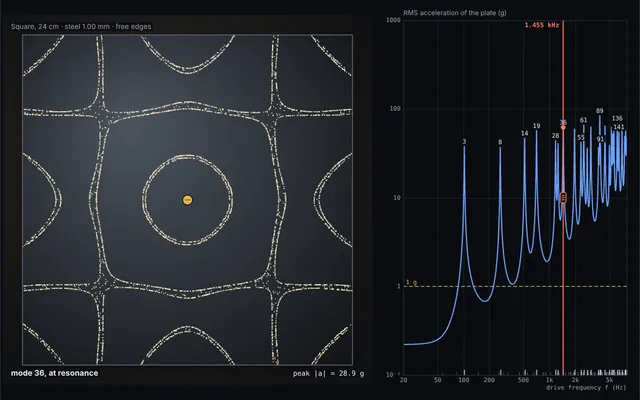
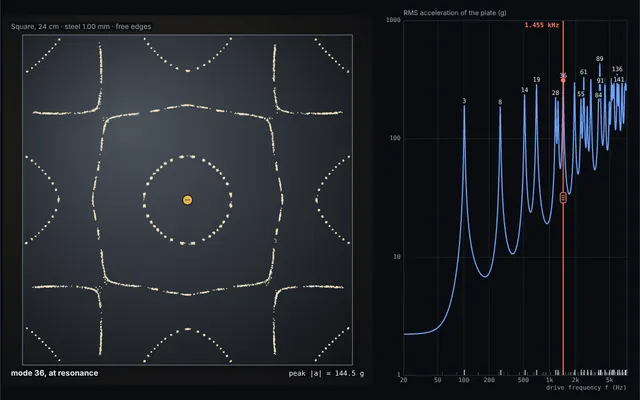
Chladni Plates: sand churns between resonances
Default drive 1 N and Q 50 (order of magnitude for a voice coil wave
driver, stated), so the off resonance modal sum exceeds g over much of
the plate above a few hundred hertz. Grains above g hop with the
plate's launch speed at the -g crossing plus a drift to smaller |a|;
patterns break up between peaks and re-form at the next. High mode
at Q 200, 0.3 N settles cleanly. Notes Q4 updated.

Claude-Session: https://claude.ai/code/session_01Ed2BcirBdsGia7rutWh1uF

diff --git a/demos/chladni.html b/demos/chladni.html
@@ -345,8 +345,9 @@ input[type="range"] { width: 100%; accent-color: var(--accent); margin: 0; }
           <p>Thin plate (Kirchhoff–Love) theory: D∇⁴w = −ρh ∂²w/∂t² with flexural rigidity D = Eh³/(12(1 − ν²)). Small, linear motion of a flat, uniform, isotropic plate. Good while the bending wavelength is long compared with the thickness (k h well below 1; shown under Plate).</p>
           <p>Every edge is free, and the drive is an ideal point force F₀ cos(2πft) at the brass post. The driver's own mass and stiffness and the small clamp around the bolt are left out; a real driver bolted to the plate shifts the resonances, so measured kit frequencies differ. The plate's rigid bouncing and rocking are included.</p>
           <p>Circle: exact solution, w = [J_n(λr/a) + C I_n(λr/a)] cos nθ, with the free edge frequency equation solved to 12 digits. Square: no closed form; Rayleigh–Ritz with Legendre polynomials up to degree 30 in x and in y (961 terms, split into symmetry classes), converged to better than 1 part in a million for every mode shown.</p>
-          <p>Damping: every flexural mode has the same Q. The response is the sum over all computed modes. The sand's mass does not load the plate.</p>
-          <p>Sand is phenomenological, not a granular simulation: where the local acceleration amplitude |a| exceeds g a grain leaves the surface each cycle and, every 1/60 s, hops s × (a random step of mean length 1 in a random direction + a drift of 0.5 toward smaller |a|), with s = 0.6 mm × √min(|a|/g − 1, 4). The drift stands in for grains bouncing off the tilted, moving surface, which carries them toward the nodes. Where |a| &lt; g a grain stays put. Grains that pass the edge fall off. Very light powder (lycopodium) gathers at the antinodes instead, carried by air currents over the plate (Faraday, 1831); air is not modeled.</p>
+          <p>Damping: every flexural mode has the same Q (default 50, a model choice: a plate bolted to a driver and carrying sand is heavily damped). The response is the sum over all computed modes, between resonances too. The sand's mass does not load the plate.</p>
+          <p>Drive level: PASCO publishes no force rating for its wave drivers (SF-9324, WA-9855). It states an amplitude of about 5 mm up to about 50 Hz for the SF-9324, which is about 50 g of acceleration at 50 Hz, a drive of ±8 V at 0.5 A, and at most 1.2 A for the WA-9855. The default F₀ = 1 N is an order of magnitude estimate for a voice coil driver at those currents, not a measured value.</p>
+          <p>Sand is phenomenological, not a granular simulation. Where the local acceleration amplitude |a| exceeds g the plate throws a grain off once a cycle, at the moment its acceleration passes −g, with launch speed v_L = (g/2πf)√((|a|/g)² − 1). Every 1/60 s such a grain moves v_L × 1/60 s (at most 3 mm) times a random step of mean length 1 in a random direction plus a drift of 0.5 toward smaller |a|. The drift stands in for grains bouncing off the tilted, moving surface, which carries them toward the nodes. Where |a| &lt; g a grain stays put. So at high frequencies, where v_L is small, sand between resonances buzzes and creeps; at low frequencies it hops far. Grains in flight are drawn with a slight blur; grains that pass the edge fall off. Very light powder (lycopodium) gathers at the antinodes instead, carried by air currents over the plate (Faraday, 1831); air is not modeled.</p>
         </div>
       </section>
     </aside>
@@ -665,17 +666,20 @@ input[type="range"] { width: 100%; accent-color: var(--accent); margin: 0; }
   }
 
   // ---- sand: a phenomenological model, not a granular simulation ----
-  // A grain where the local acceleration amplitude |a| exceeds g leaves the surface on every cycle. Each tick it hops by
-  // s × (a random vector of mean length 1 + drift × the unit vector down the slope of |a|), with s = step × √min(|a|/g − 1, cap).
-  // The drift stands in for grains bouncing off the tilted, moving surface, which carries them toward the nodes.
-  // Where |a| < g a grain stays put. Grains that pass the edge fall off.
-  function sandStep(sx, sy, alive, gammaAt, inside, rng, step, cap, drift) {
+  // Where the local acceleration amplitude exceeds g (Γ = |a|/g > 1) the plate throws a grain off once a cycle, at the
+  // moment its acceleration passes −g; the plate's speed then is the launch speed v_L = (g/ω)√(Γ² − 1).
+  function launchSpeed(gam, f) { return gam > 1 ? G0 / (2 * Math.PI * f) * Math.sqrt(gam * gam - 1) : 0; }
+  // Each tick a grain with Γ > 1 moves s × (a random vector of mean length 1 + drift × the unit vector down the slope of Γ),
+  // with s = hop(Γ) supplied by the caller (the demo uses a fixed fraction of v_L × tick, capped). The drift stands in for
+  // grains bouncing off the tilted, moving surface, which carries them toward the nodes. Where Γ ≤ 1 a grain stays put.
+  // Grains that pass the edge fall off.
+  function sandStep(sx, sy, alive, gammaAt, inside, rng, hop, drift) {
     let lost = 0; const h = 0.01;
     for (let i = 0; i < sx.length; i++) {
       if (!alive[i]) continue;
       const x = sx[i], y = sy[i], gam = gammaAt(x, y);
       if (gam <= 1) continue;
-      const s = step * Math.sqrt(Math.min(gam - 1, cap)), r = 2 * rng(), th = 2 * Math.PI * rng();
+      const s = hop(gam), r = 2 * rng(), th = 2 * Math.PI * rng();
       let dx = r * Math.cos(th), dy = r * Math.sin(th);
       if (drift) {
         const gx = gammaAt(x + h, y) - gammaAt(x - h, y), gy = gammaAt(x, y + h) - gammaAt(x, y - h), gn = Math.hypot(gx, gy);
@@ -708,7 +712,8 @@ input[type="range"] { width: 100%; accent-color: var(--accent); margin: 0; }
   const TAU = 2 * Math.PI;
   const GN = 101, NSAND = 6000, HALF = 0.12;      // field grid nodes per side; sand grains; half width of either plate, m
   const F_MIN = 20, F_CAP = 8000;
-  const STEP = 0.0006 / HALF, CAP = 4, DRIFT = 0.5, TICK = 1 / 60;   // sand: hop scale (plate half widths), cap on |a|/g − 1, drift, tick (s)
+  const EPS = 1, HOP_MAX = 0.003, DRIFT = 0.5, TICK = 1 / 60;   // sand: grain speed = EPS × launch speed, longest hop per tick (m), drift, tick (s)
+  const hop = (gam) => Math.min(HOP_MAX, EPS * launchSpeed(gam, S.f) * TICK) / HALF;
   const DRIVEN = 0.15;                                    // |φ̂(p)| below this: the drive point sits on or near a nodal line
   const DRIVES = {
     square: { center: [0, 0], off: [0.42, 0.22], edge: [1, 0.36] },
@@ -716,7 +721,7 @@ input[type="range"] { width: 100%; accent-color: var(--accent); margin: 0; }
   };
 
   // ---------- state ----------
-  const S = { shape: 'square', mat: 'steel', h: 1.0e-3, f: 100, Q: 100, F: 0.1, drive: 'center', du: 0, dv: 0,
+  const S = { shape: 'square', mat: 'steel', h: 1.0e-3, f: 100, Q: 50, F: 1, drive: 'center', du: 0, dv: 0,
     view: 'sand', plot: 'resp', nodal: false, heat: false, follow: true, sweep: false, rate: 4 };
   let presetId = null, running = !reduce, frameMs = 0, dirty = true;
 
@@ -881,7 +886,7 @@ input[type="range"] { width: 100%; accent-color: var(--accent); margin: 0; }
     sand.count = NSAND; dirty = true; glSandDirty = true;
   }
   function sandTick() {
-    sand.count -= sandStep(sand.x, sand.y, sand.alive, gammaAt, inside, rng, STEP, CAP, DRIFT); ticks++;
+    sand.count -= sandStep(sand.x, sand.y, sand.alive, gammaAt, inside, rng, hop, DRIFT); ticks++;
   }
 
   // ---------- frequency controls ----------
@@ -963,18 +968,18 @@ input[type="range"] { width: 100%; accent-color: var(--accent); margin: 0; }
 
   // ---------- presets ----------
   const PRESETS = {
-    first: { shape: 'square', mat: 'steel', h: 1e-3, drive: 'center', Q: 100, F: 0.1, pick: { driven: 1 },
+    first: { shape: 'square', mat: 'steel', h: 1e-3, drive: 'center', Q: 50, F: 1, pick: { driven: 1 },
       hint: 'The lowest mode a center drive can excite on the square. In a few seconds the sand leaves the moving regions and gathers on the nodal lines. The lower twisting modes have a node at the center, so they stay silent.' },
-    cross: { shape: 'circle', mat: 'steel', h: 1e-3, drive: 'off', Q: 100, F: 0.5, pick: { nm: [2, 0] },
+    cross: { shape: 'circle', mat: 'steel', h: 1e-3, drive: 'off', Q: 50, F: 1, pick: { nm: [2, 0] },
       hint: 'Driven halfway out, like the off center hole of a kit plate: two nodal diameters cross at right angles. This is the lowest flexural mode of a free circular plate, yet a center drive could never excite it, because every mode with nodal diameters has a node at the center.' },
-    rings: { shape: 'circle', mat: 'steel', h: 1e-3, drive: 'center', Q: 100, F: 0.1, pick: { nm: [0, 3] },
+    rings: { shape: 'circle', mat: 'steel', h: 1e-3, drive: 'center', Q: 50, F: 1, pick: { nm: [0, 3] },
       hint: 'Driven at the center, a circular plate can only ring in modes without nodal diameters, so every pattern is a set of concentric nodal circles. Step through them with Next resonance.' },
-    sweep: { shape: 'square', mat: 'steel', h: 1e-3, drive: 'center', Q: 100, F: 0.1, f: 60, sweep: true, rate: 1,
-      hint: 'Turn on Sound. The drive sweeps upward one semitone per second: the tone swells at every peak of the response curve while the sand jumps, and falls quiet between peaks.' },
-    star: { shape: 'square', mat: 'steel', h: 1e-3, drive: 'center', Q: 100, F: 0.1, pick: { driven: 7 },
+    sweep: { shape: 'square', mat: 'steel', h: 1e-3, drive: 'center', Q: 50, F: 1, f: 60, sweep: true, rate: 1,
+      hint: 'Turn on Sound. The drive sweeps upward one semitone per second: the tone swells at every peak and the sand snaps into a new pattern. Between peaks the plate still moves; above a few hundred hertz it passes g over much of the plate, so the old pattern buzzes and starts to break up.' },
+    star: { shape: 'square', mat: 'steel', h: 1e-3, drive: 'center', Q: 50, F: 1, pick: { driven: 7 },
       hint: 'A higher mode of the center driven square, with nodal lines in a star around the middle. Patterns like this fill the plates in Chladni’s 1787 book.' },
-    high: { shape: 'circle', mat: 'steel', h: 1e-3, drive: 'edge', Q: 300, F: 0.1, pick: { nm: [4, 2] },
-      hint: 'Driven at the rim, the way Chladni bowed his plates: four nodal diameters and two nodal circles, at Q = 300 so that neighboring modes stay out. The drive point sits on an antinode at the rim, so no nodal diameter can pass through it.' }
+    high: { shape: 'circle', mat: 'steel', h: 1e-3, drive: 'edge', Q: 200, F: 0.3, pick: { nm: [4, 2] },
+      hint: 'Driven at the rim, the way Chladni bowed his plates: four nodal diameters and two nodal circles, at Q = 200 so that neighboring modes stay out. The drive point sits on an antinode at the rim, so no nodal diameter can pass through it.' }
   };
   function clearPreset() {
     if (!presetId) return;
@@ -1034,7 +1039,7 @@ input[type="range"] { width: 100%; accent-color: var(--accent); margin: 0; }
     $('plateHint').textContent = `A ${name}, as in common teaching kits (PASCO WA-9607); makers rarely state the thickness, about 1 mm is typical. ${mat.name}: E = ${mat.E / 1e9} GPa, ρ = ${mat.rho} kg/m³, ν = ${mat.nu}. Every frequency scales as h/ℓ² × √(E/ρ(1 − ν²)): twice as thick, an octave higher. Modes are computed up to ${fmtF(D.fmax)} for this plate.`;
   }
   function driveHintText() {
-    $('driveHint').textContent = `Sand leaves the surface where the plate's acceleration amplitude passes g, which happens near resonance. A mode is excited only if the drive point moves in it: a drive on a nodal line of a mode cannot pump it. The force and Q are model choices; Q = ${Math.round(S.Q)} gives each peak a width f/Q.`;
+    $('driveHint').textContent = `Sand leaves the surface where the plate's acceleration amplitude passes g, which happens near resonance. A mode is excited only if the drive point moves in it: a drive on a nodal line of a mode cannot pump it. Between resonances the plate still moves (the sum of all modes, strongest near the post), and wherever |a| passes g the old pattern breaks up. The force (default 1 N, an estimate for a classroom wave driver; see Model) and Q are model choices; Q = ${Math.round(S.Q)} gives each peak a width f/Q.`;
   }
   function plotHintText() {
     $('plotHint').textContent = S.plot === 'law'
@@ -1150,7 +1155,7 @@ input[type="range"] { width: 100%; accent-color: var(--accent); margin: 0; }
     for (let i = 0; i < NSAND; i++) {
       if (!sand.alive[i]) continue;
       let x = U2X(sand.x[i]), y = V2Y(sand.y[i]);
-      if (jit && sand.g[i] > 1) { x += (Math.random() - 0.5) * jit; y += (Math.random() - 0.5) * jit; }
+      if (jit && sand.g[i] > 1) { const j = jit * Math.min(2.2, 0.6 + 0.4 * (sand.g[i] - 1)); x += (Math.random() - 0.5) * j; y += (Math.random() - 0.5) * j; }
       c.fillRect(x - hs, y - hs, sz, sz);
     }
     if (S.nodal) {
@@ -1176,7 +1181,7 @@ input[type="range"] { width: 100%; accent-color: var(--accent); margin: 0; }
     if (D.near != null) {
       const md = D.ms.modes[D.near], fk = modeF(md), off = Math.abs(S.f - fk) / (fk / S.Q);
       c.font = `700 ${13.5 * ps}px ${T.ui}`;
-      const t = off < 1.5 ? `${md.label}, ${isDriven(D.near) ? 'at resonance' : 'not driven'}` : 'between resonances';
+      const t = off < 1.5 && isDriven(D.near) ? `${md.label}, at resonance` : 'between resonances';
       halo(c, t, p.x + 4, p.y + p.s - 6 * ps, 'left', T.ink, ps);
       c.font = `${12 * ps}px ${T.mono}`;
       halo(c, `peak |a| = ${D.gmax < 10 ? D.gmax.toFixed(2) : D.gmax.toFixed(1)} g`, p.x + p.s - 4, p.y + p.s - 6 * ps, 'right', D.gmax > 1 ? T.ink : T.muted, ps);

diff --git a/notes/chladni.html b/notes/chladni.html
@@ -76,7 +76,7 @@ footer { margin-top: 36px; padding-top: 10px; border-top: 1px solid var(--line);
 <li><strong>Next resonance</strong>, a few times. Each peak gives a new pattern with more nodal lines. Point out the faint ticks along the bottom of the plot: modes that exist but do not respond, because the center is on one of their nodal lines. Ask Q6, then drag the brass drive post off center and press <strong>Previous resonance</strong> back down.</li>
 <li><strong>Rings on a circle.</strong> Ask Q2 as a prediction first. Step through with <strong>Next resonance</strong>: every pattern is a set of circles.</li>
 <li><strong>A cross</strong>, then <strong>High mode</strong>. Off center and at the rim, the modes with nodal diameters appear. Switch <strong>Plot</strong> to <strong>Chladni's law</strong> and use Q5.</li>
-<li><strong>Sweep and listen.</strong> Turn on sound. The tone swells at each peak; the sand only moves when the curve crosses the 1 g line. Stop the sweep near a peak and use <strong>Fine tune</strong> to walk across it; change <strong>Modal Q (damping)</strong> and ask Q4.</li>
+<li><strong>Sweep and listen.</strong> Turn on sound. The tone swells at each peak. Between peaks the plate still moves; above a few hundred hertz it passes g over much of the plate, so the old pattern buzzes and starts to break up before the next one forms. Stop the sweep near a peak and use <strong>Fine tune</strong> to walk across it; change <strong>Modal Q (damping)</strong> and ask Q4.</li>
 <li><strong>Square: classic star</strong> (if time allows). Try <strong>Where |a| &gt; g</strong> and <strong>3D</strong> (bending exaggerated and slowed). Change <strong>Metal</strong> and <strong>Thickness h</strong> for Q3.</li>
 </ol>
 <h2>Questions</h2>
@@ -86,7 +86,7 @@ footer { margin-top: 36px; padding-top: 10px; border-top: 1px solid var(--line);
 
 <div class="q"><p><strong>Q3.</strong> The lowest mode a center drive excites on the 24 cm, 1.00 mm steel square is at 102.4 Hz. Predict its frequency (a) for a 2.00 mm steel plate, (b) for a steel plate 18 cm on a side and 1.00 mm thick, and (c) for a 1.00 mm aluminum plate (E = 69 GPa, ρ = 2700 kg/m³ instead of 200 GPa and 7850 kg/m³). Aluminum is almost three times lighter; why is (c) nearly the same? Check (a) and (c) with the demo.</p></div>
 
-<div class="q"><p><strong>Q4.</strong> At 102.4 Hz in <strong>First pattern</strong> the peak acceleration on the plate is 11.1 g. What is the largest displacement amplitude of the plate? If Q is doubled from 100 to 200 at exact resonance, what happens to that amplitude, and to the width of the peak?</p></div>
+<div class="q"><p><strong>Q4.</strong> At 102.4 Hz in <strong>First pattern</strong> the peak acceleration on the plate is 55.7 g. What is the largest displacement amplitude of the plate? If Q is doubled from 50 to 100 at exact resonance, what happens to that amplitude, and to the width of the peak?</p></div>
 
 <div class="q"><p><strong>Q5.</strong> With <strong>High mode</strong> loaded, switch <strong>Plot</strong> to <strong>Chladni's law</strong>. Use the fitted C and p shown on the plot to predict the frequency of the (4, 2) mode, then compare with the demo's resonance. How good is the law, and what kind of statement is it?</p></div>
 

diff --git a/notes/src/chladni.md b/notes/src/chladni.md
@@ -21,7 +21,7 @@ Students should know standing waves on a string, nodes and antinodes, and driven
 2. **Next resonance**, a few times. Each peak gives a new pattern with more nodal lines. Point out the faint ticks along the bottom of the plot: modes that exist but do not respond, because the center is on one of their nodal lines. Ask Q6, then drag the brass drive post off center and press **Previous resonance** back down.
 3. **Rings on a circle.** Ask Q2 as a prediction first. Step through with **Next resonance**: every pattern is a set of circles.
 4. **A cross**, then **High mode**. Off center and at the rim, the modes with nodal diameters appear. Switch **Plot** to **Chladni's law** and use Q5.
-5. **Sweep and listen.** Turn on sound. The tone swells at each peak; the sand only moves when the curve crosses the 1 g line. Stop the sweep near a peak and use **Fine tune** to walk across it; change **Modal Q (damping)** and ask Q4.
+5. **Sweep and listen.** Turn on sound. The tone swells at each peak. Between peaks the plate still moves; above a few hundred hertz it passes g over much of the plate, so the old pattern buzzes and starts to break up before the next one forms. Stop the sweep near a peak and use **Fine tune** to walk across it; change **Modal Q (damping)** and ask Q4.
 6. **Square: classic star** (if time allows). Try **Where |a| > g** and **3D** (bending exaggerated and slowed). Change **Metal** and **Thickness h** for Q3.
 
 ## Questions
@@ -32,7 +32,7 @@ Students should know standing waves on a string, nodes and antinodes, and driven
 
 **Q3.** The lowest mode a center drive excites on the 24 cm, 1.00 mm steel square is at 102.4 Hz. Predict its frequency (a) for a 2.00 mm steel plate, (b) for a steel plate 18 cm on a side and 1.00 mm thick, and (c) for a 1.00 mm aluminum plate (E = 69 GPa, ρ = 2700 kg/m³ instead of 200 GPa and 7850 kg/m³). Aluminum is almost three times lighter; why is (c) nearly the same? Check (a) and (c) with the demo.
 
-**Q4.** At 102.4 Hz in **First pattern** the peak acceleration on the plate is 11.1 g. What is the largest displacement amplitude of the plate? If Q is doubled from 100 to 200 at exact resonance, what happens to that amplitude, and to the width of the peak?
+**Q4.** At 102.4 Hz in **First pattern** the peak acceleration on the plate is 55.7 g. What is the largest displacement amplitude of the plate? If Q is doubled from 50 to 100 at exact resonance, what happens to that amplitude, and to the width of the peak?
 
 **Q5.** With **High mode** loaded, switch **Plot** to **Chladni's law**. Use the fitted C and p shown on the plot to predict the frequency of the (4, 2) mode, then compare with the demo's resonance. How good is the law, and what kind of statement is it?
 
